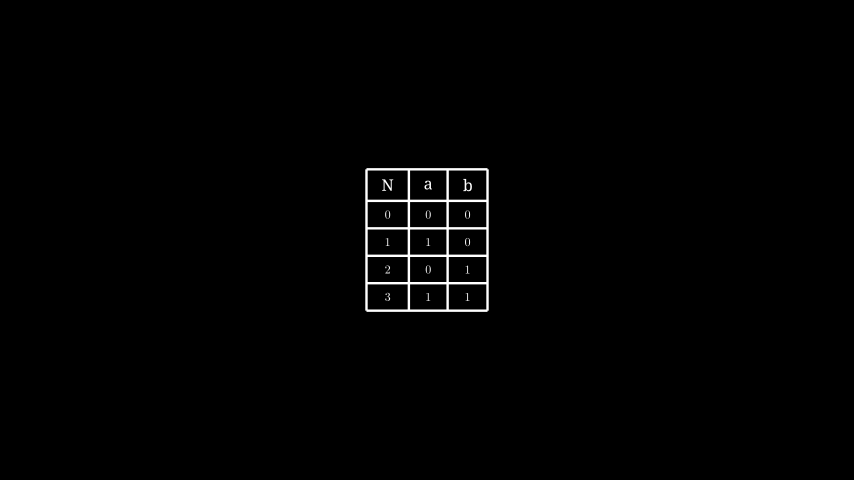
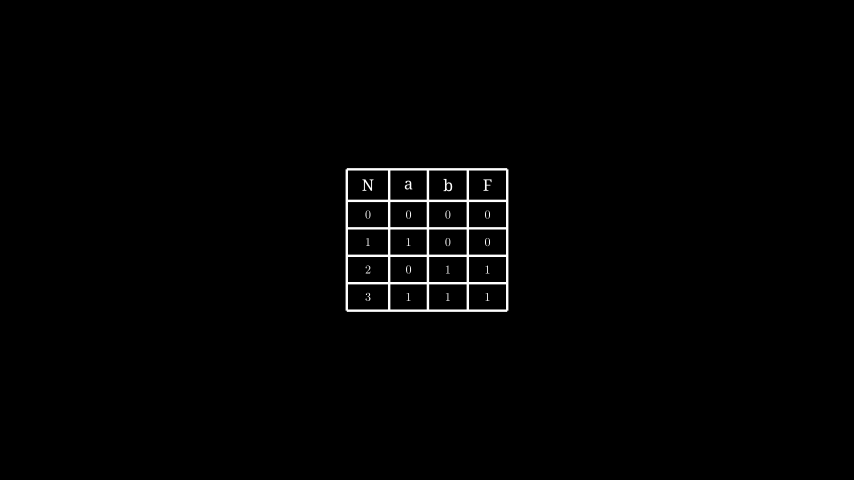
upd

Changed region(s): [[0.3958, 0.3438, 0.6089, 0.6562]]

diff --git a/main.py b/main.py
@@ -17,17 +17,19 @@ def make_truth_table(var_qty: int) -> list:
     
     return result
 
-t = make_truth_table(2)
-t = np.append(t, 0, axis=1)
-print(t)
+
+def get_rand_function_result(var_qty: int) -> list:
+    return np.random.randint(2, size=var_qty**2)
 
 
 class IntegerTableExampe(Scene):
     def construct(self):
         var_qty = 2
         column_size = 2 ** var_qty
-
+        function_result = [0, 0, 1, 1]
         table_data = make_truth_table(var_qty)
+        table_data = np.c_[table_data, function_result]
+
         table = IntegerTable(table_data,
             include_outer_lines=True,
             top_left_entry=Text("N"),
